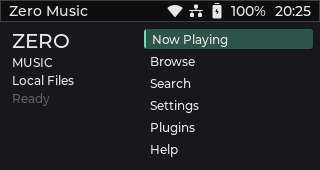
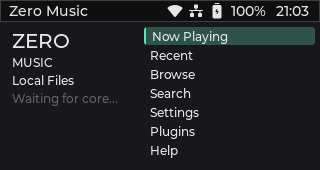
feat(ui): add recent page and ascii status text

diff --git a/src/viewmodel/base_viewmodel.cpp b/src/viewmodel/base_viewmodel.cpp
@@ -103,7 +103,7 @@ BaseViewModel::BaseViewModel()
       track_album_subject_(""),
       position_text_subject_("0:00"),
       duration_text_subject_("0:00"),
-      status_subject_("Waiting for core…"),
+      status_subject_("Waiting for core..."),
       list_title_subject_("Songs"),
       list_revision_subject_(0),
       queue_revision_subject_(0),
@@ -462,6 +462,19 @@ void BaseViewModel::load_liked() {
     });
 }
 
+void BaseViewModel::load_recent() {
+    const std::string source = active_source_;
+    client_.call("source.call",
+                 ipc::Json{{"source", source}, {"method", "recent"}, {"params", ipc::Json::object()}},
+                 [this](const ipc::Json& result, const std::string& code, const std::string& message) {
+        if (!code.empty()) {
+            fail(code, message);
+            return;
+        }
+        apply_tracks(result.is_array() ? result : ipc::Json::array(), "Recent");
+    });
+}
+
 void BaseViewModel::open_collection_item(std::size_t index) {
     if (index >= collection_.size()) {
         return;
@@ -599,8 +612,8 @@ void BaseViewModel::cycle_source() {
 
 void BaseViewModel::rescan() {
     client_.call("library.rescan", ipc::Json::object());
-    status_subject_.set("Scanning…");
-    model_.set_status("Scanning…");
+    status_subject_.set("Scanning...");
+    model_.set_status("Scanning...");
 }
 
 void BaseViewModel::load_plugins() {
@@ -665,16 +678,16 @@ void BaseViewModel::install_plugin(const std::string& repo) {
     if (repo.empty()) {
         return;
     }
-    status_subject_.set("Installing…");
-    model_.set_status("Installing…");
+    status_subject_.set("Installing...");
+    model_.set_status("Installing...");
     client_.call("plugin.install", ipc::Json{{"repo", repo}},
                  [this](const ipc::Json&, const std::string& code, const std::string& message) {
         if (!code.empty()) {
             fail(code, message);
             return;
         }
-        status_subject_.set("Downloading plugin…");
-        model_.set_status("Downloading plugin…");
+        status_subject_.set("Downloading plugin...");
+        model_.set_status("Downloading plugin...");
     });
 }
 
@@ -683,7 +696,7 @@ void BaseViewModel::load_account(std::size_t index) {
         return;
     }
     account_plugin_id_ = plugins_[index].id;
-    account_subject_.set("Loading…");
+    account_subject_.set("Loading...");
     client_.call("plugin.account", ipc::Json{{"id", account_plugin_id_}},
                  [this](const ipc::Json& result, const std::string& code, const std::string& message) {
         if (!code.empty()) {
@@ -766,7 +779,7 @@ void BaseViewModel::sign_in_plugin(std::size_t index) {
     }
     const std::string id = plugins_[index].id;
     prompt_qr_subject_.set("");
-    prompt_text_subject_.set("Waiting for the code…");
+    prompt_text_subject_.set("Waiting for the code...");
     show_page(model::AppPage::SignIn);
     client_.call("plugin.signIn", ipc::Json{{"id", id}},
                  [this, id](const ipc::Json&, const std::string& code, const std::string& message) {
@@ -879,7 +892,7 @@ void BaseViewModel::on_event(const std::string& name, const ipc::Json& data) {
             fail("unavailable", data.value("error", "install failed"));
         }
         else {
-            status_subject_.set("Downloading plugin…");
+            status_subject_.set("Downloading plugin...");
         }
     }
     else if (name == "plugin.prompt") {

diff --git a/src/view/screens/home_screen.cpp b/src/view/screens/home_screen.cpp
@@ -20,8 +20,9 @@ struct Entry {
     model::AppPage page;
 };
 
-constexpr std::array<Entry, 6> kEntries = {{
+constexpr std::array<Entry, 7> kEntries = {{
     {"Now Playing", model::AppPage::NowPlaying},
+    {"Recent", model::AppPage::Recent},
     {"Browse", model::AppPage::Browse},
     {"Search", model::AppPage::Search},
     {"Settings", model::AppPage::Settings},
@@ -73,16 +74,16 @@ void HomeScreen::build_content(lv_obj_t* content) {
     lv_obj_remove_style_all(menu);
     lv_obj_set_size(menu, 180, LV_PCT(100));
     lv_obj_align(menu, LV_ALIGN_RIGHT_MID, 0, 0);
-    lv_obj_set_style_pad_all(menu, 7, 0);
+    lv_obj_set_style_pad_all(menu, 5, 0);
     lv_obj_set_style_pad_left(menu, 4, 0);
     lv_obj_set_flex_flow(menu, LV_FLEX_FLOW_COLUMN);
-    lv_obj_set_style_pad_row(menu, 2, 0);
+    lv_obj_set_style_pad_row(menu, 1, 0);
     lv_obj_clear_flag(menu, LV_OBJ_FLAG_SCROLLABLE);
 
     for (const auto& entry : kEntries) {
         auto* row = lv_obj_create(menu);
         lv_obj_remove_style_all(row);
-        lv_obj_set_size(row, LV_PCT(100), 20);
+        lv_obj_set_size(row, LV_PCT(100), 18);
         lv_obj_set_style_radius(row, 3, 0);
         lv_obj_set_style_pad_left(row, 6, 0);
         lv_obj_clear_flag(row, LV_OBJ_FLAG_SCROLLABLE);

diff --git a/src/app/screen_namager.cpp b/src/app/screen_namager.cpp
@@ -16,6 +16,7 @@
 #include "now_playing_screen.h"
 #include "plugins_screen.h"
 #include "queue_screen.h"
+#include "recent_screen.h"
 #include "settings_screen.h"
 #include "search_screen.h"
 #include "signin_screen.h"
@@ -153,6 +154,9 @@ void ScreenManager::flush_requested_page() {
             break;
         case model::AppPage::Account:
             load_screen(std::make_unique<screen::AccountScreen>(view_model_, assets_), requested_page_);
+            break;
+        case model::AppPage::Recent:
+            load_screen(std::make_unique<screen::RecentScreen>(view_model_, assets_), requested_page_);
             break;
         default: {
             const auto text = placeholder_for(requested_page_);

diff --git a/src/view/screens/recent_screen.h b/src/view/screens/recent_screen.h
@@ -1,0 +1,30 @@
+/*
+ * SPDX-FileCopyrightText: 2026 Zero Music contributors
+ *
+ * SPDX-License-Identifier: AGPL-3.0-or-later
+ */
+
+#pragma once
+
+#include "base_screen.h"
+#include "track_list.h"
+
+#include <memory>
+
+namespace screen {
+
+// RecentScreen is what played last, from the active source.
+class RecentScreen : public BaseScreen {
+public:
+    using BaseScreen::BaseScreen;
+
+    bool handle_key(std::uint32_t key, bool long_pressed) override;
+
+protected:
+    void build_content(lv_obj_t* content) override;
+
+private:
+    std::unique_ptr<view::widgets::TrackList> list_;
+};
+
+} // namespace screen

diff --git a/src/view/screens/recent_screen.cpp b/src/view/screens/recent_screen.cpp
@@ -1,0 +1,23 @@
+/*
+ * SPDX-FileCopyrightText: 2026 Zero Music contributors
+ *
+ * SPDX-License-Identifier: AGPL-3.0-or-later
+ */
+
+#include "recent_screen.h"
+
+#include "asset_manager.h"
+
+namespace screen {
+
+void RecentScreen::build_content(lv_obj_t* content) {
+    list_ = std::make_unique<view::widgets::TrackList>(content, view_model(), assets());
+    list_->build();
+    view_model().load_recent();
+}
+
+bool RecentScreen::handle_key(std::uint32_t key, bool long_pressed) {
+    return list_ && list_->handle_key(key, long_pressed);
+}
+
+} // namespace screen

diff --git a/src/viewmodel/base_viewmodel.h b/src/viewmodel/base_viewmodel.h
@@ -161,6 +161,7 @@ public:
     void browse(const std::string& page = "songs");
     void load_collection(CollectionKind kind);
     void load_liked();
+    void load_recent();
     void open_collection_item(std::size_t index);
     const std::vector<CollectionItem>& collection() const { return collection_; }
     lv_subject_t* collection_revision_subject();

diff --git a/src/model/base_model.h b/src/model/base_model.h
@@ -25,6 +25,7 @@ enum class AppPage {
     Help = 10,
     Install = 11,
     Account = 12,
+    Recent = 13,
 };
 
 struct Track {

diff --git a/docs/implementation-status.md b/docs/implementation-status.md
@@ -99,7 +99,9 @@ cmake --build build/dev -j8
 - 截图：[Browse](../screenshot/zero-music-browse.png) /
   [Search](../screenshot/zero-music-search.png)。
 
+- Home 增加 Recent 页，读取当前源的 `recent`。
 - Now Playing 按 `L` 喜欢/取消喜欢当前曲目，状态来自 `isLiked`。
+- 截图：[Home](../screenshot/zero-music-home.png)。
 - Queue 页按播放顺序显示队列，Enter 跳转，Backspace 删除。
 - Lyrics 页显示当前行及前后行，自动跟随播放，上下可手动滚动；core 在歌词
   加载后补发一次完整 `player.state`。
@@ -168,7 +170,7 @@ v1 不做中文输入：只保证 ASCII 输入与 CJK 显示。
 已验证产物（2026-11-07）：
 
 - `dist/zero-music_0.2.1_rev1_arm64.deb`，约 7.6 MB，sha256
[2 lines of base64/hex data omitted]
 - `Architecture: arm64`，`Maintainer: H.B. Yu <mail@yuhaibo.com>`；
 - 包内含 `/usr/bin/zero-music`（wrapper）、`zero-music-core`（aarch64 ELF）、
   `zero-music-ui`（aarch64 ELF）、`/etc/zero-music.conf`、APPLaunch 桌面项与
